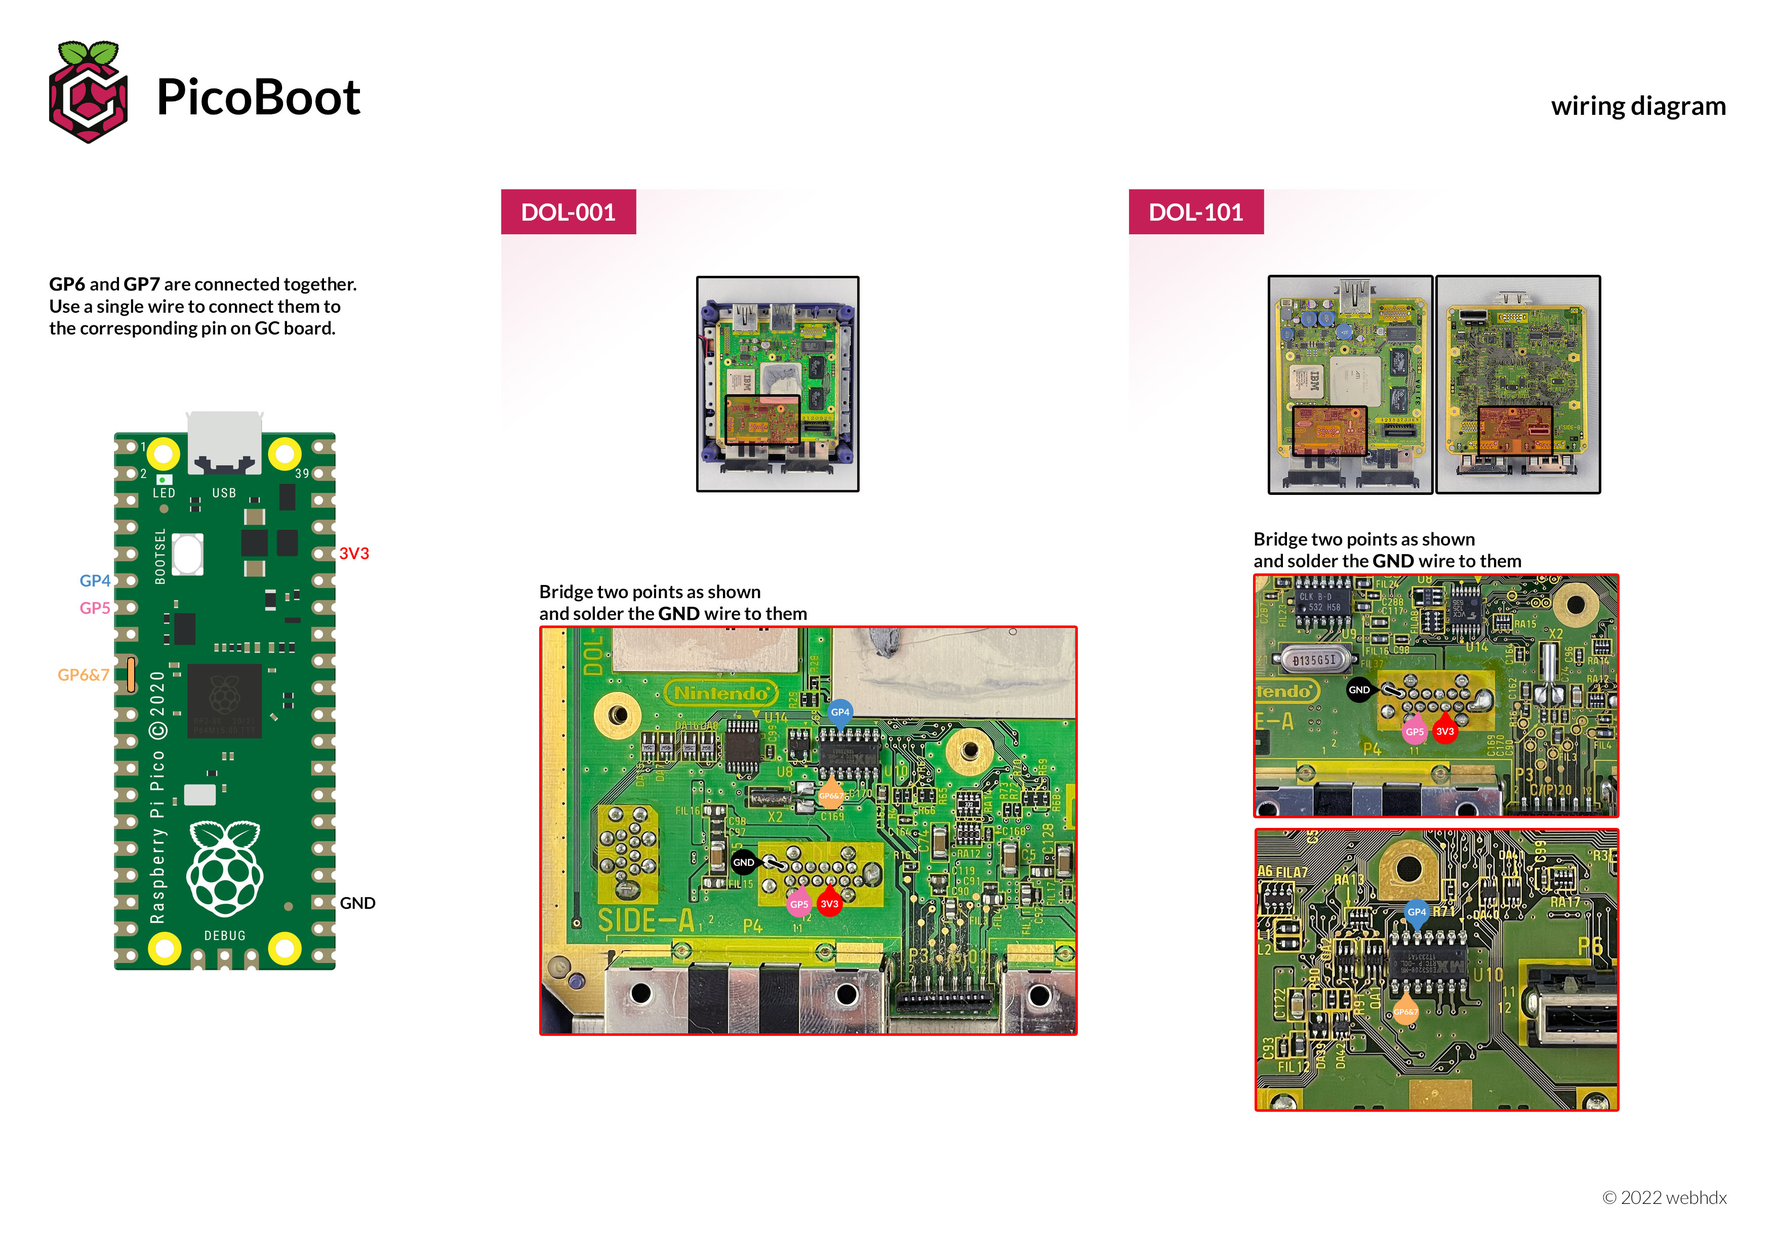
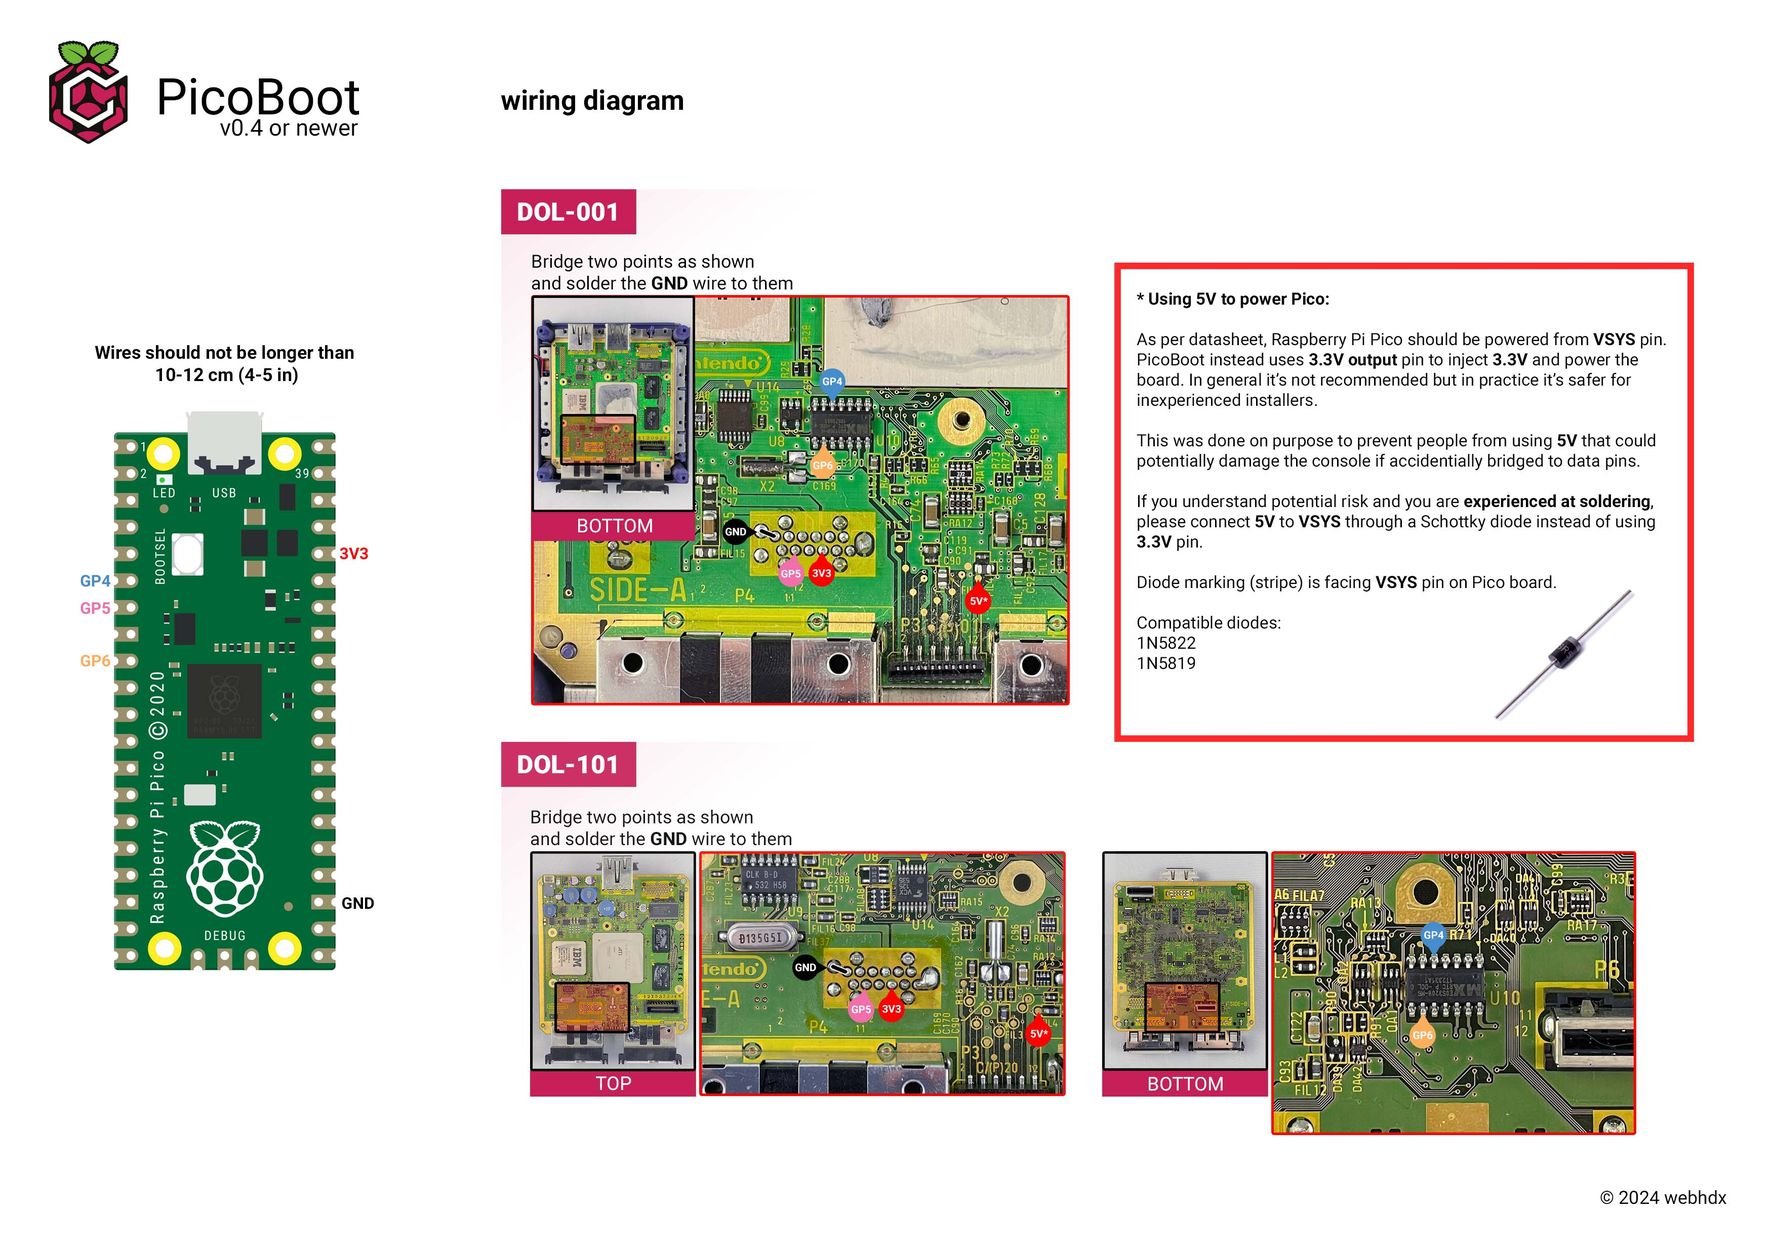
Update PicoBoot doc pages for v0.4 release (#1)
* Update PicoBoot doc pages for v0.4 release

* Add hero to PicoBoot index page

* PicoBoot: Open GH hero link in new tab

* PicoBoot/Troubleshooting: Rephrase power light comes off section

diff --git a/docs/gc/picoboot/troubleshooting.md b/docs/gc/picoboot/troubleshooting.md
@@ -1,32 +1,44 @@
 # Troubleshooting
 
-## My console boots to vanilla GC menu
+## Problem: Booting into stock GC menu
 
-In most cases this suggests there are issues with your SD card setup. Many people experienced this with SD2SP2 adapters which are very often terrible quality. I suggest trying different SD2SP2 adapter, preferably sideloading one (so called "GB Player compatible") which are, in my experience, more reliable. Getting one of memory card form factor adapters (SD Gecko, WiiSD) is also a good idea. These adapters pretty much always work. Also this is the adapter you want to get if you are using DOL-101 model.
+### Cause: SD Card setup
+In most cases this suggests there are issues with your SD card setup. Many people experienced this with SD2SP2 adapters which are very often terrible quality. I suggest trying different SD2SP2 adapter, preferably sideloading one (so called "GB Player compatible") which are, in my experience, more reliable. In mid 2024, a new version "SD2SP2 v2.0" was released. It improves compatibility with demanding games, making FMVs play with no stutter. I highly recommend getting "v2.0" adapters over the old ones.
 
-Starting with [PicoBoot v0.2](https://github.com/webhdx/PicoBoot/releases/tag/v0.2) release you can hold D-Pad Down during boot to see debug output from iplboot. You should see similar output as shown below:
+If your console is missing SP2 port (DOL-101, newer revision DOL-001, Panasonic Q) you can get memory card form factor adapter which is often called SD Gecko, WiiSD or GC2SD. They are functionally the same as SD2SP2 adapters, just using different port.
+
+To confirm it's indeed SD card related problem, you can hold D-Pad Down button during boot. It should show debug info screen while you hold the button. Make sure you're using the latest software version. Afromentioned debug screen will looks similar to the one below:
 
 ![IPLBoot debug output](/img/picoboot/iplboot_debug_output.png)
 
-```
-Mounted GAMECUBE as sda
-Reading /ipl.dol
-```
+If you get to show this screen, you can be assured your PicoBoot installation is 100% correct and the problem lies in SD card setup. 
 
-This means it properly detected my memory card named GAMECUBE in Memory Card Slot A, which is true because I've used SD Gecko adapter. If you don't see similar message it means your card couldn't be detected, you've used wrong file system (FAT32 is recommended) or there is no `ipl.dol` file on the memory card.
+### Cause: Cheap Chinese HDMI adapter
 
-## Orange light is on but it doesn't display anything on the screen
+Similar "booting to stock GameCube menu" issue can happen with some cheap Chinese GCVideo based HDMI adapters. It's described in detail in [here](https://github.com/ikorb/gcvideo/pull/123). Basically the console will boot to Swiss once and then it'll boot to the stock menu on next power cycle. The best solution is to stop using mentioned HDMI adapter as it's potentially harmful. Alternatively this issue can be mitigated by using 5V pin and a diode to power PicoBoot. Refer to [the wiring diagram](https://github.com/webhdx/PicoBoot/blob/main/assets/Wiring%20diagram.jpg) for more information. 
 
-First rule out any shorts between adjacent points. It's also common for GP4 and GP6&7 short to the heatsink if you soldered wires over U10 chip.
+## Problem: Orange light is on but it doesn't display anything on the screen
 
-If you are 100% sure your soldering is okay and there are no shorts, you are probably experiencing interference introduced to data lines because of the wires length. There is a golden rule: use as short wires as possible. 10 centimeters (~4 inches) is what I'd consider as a maximum recommended length. The type of wire is also very important. Use 26-28 AWG stranded wires. Single core or thick wires can easily break or in worst case rip pads from the motherboard if you put too much stress on them. If that happens it's a game over for your console and it's beyond fixable at that point. 
+### Cause: Wires are too long (very common!)
 
-PicoBoot placement also plays a huge role in reliability - install it near the fan, it's guaranteed to work in that spot. Any other placement is not guaranteed to work, especially placing PicoBoot in Serial Port 1 slot as it's confirmed to be unreliable.
+If you are 100% sure your soldering is okay and there are no shorts, you are probably experiencing interference on data lines caused by wires length. There is a golden rule: use as short wires as possible. 10 centimeters (~4 inches) is what I'd consider as a maximum recommended length. Type of the wires is also very important. Use 26-28 AWG stranded wires. Single core or thick wires can easily break or in worst case rip pads from the motherboard if you put too much stress on them. This kind of damage is often irrepairable. This is why you should practice soldering before attempting the installation. 
 
-#### Other possible solutions:
-- Try different power supply, ref. https://github.com/webhdx/PicoBoot/issues/32
+### Cause: Shorts between soldering points
 
-## Power light comes off shortly after hitting the power button
+First rule out any shorts between adjacent points. It's also common for GP4 and GP6 short to the heatsink if you soldered routed over U10 chip.
 
-This indicates shorted power line. Check your soldering and make sure wires are not touching any other point than the one mentioned in the diagram. Please be careful, there is 12V power line on the SP1 connector where you need to solder 3 wires. It's possible to short it to data lines and fry CPU.
+### Cause: Board placement 
+
+PicoBoot placement also plays a huge role in reliability - install it near the fan, it's guaranteed to work in that spot. There are some alternative locations which are not recommended by the creator. Especially placing PicoBoot in Serial Port 1 cavity for ease of upgrading has proven to be unreliable for some users.
+
+### Other things to try
+
+- Try a different power supply, ref. https://github.com/webhdx/PicoBoot/issues/32
+- Use 5V instead of 3.3V as noted in the wiring diagram.
+
+## Problem: Power light comes off shortly after power up
+
+### Cause: There is a short on 3.3V or 5V power rails
+
+This indicates shorted power line. Check your soldering and make sure wires are not touching any other point than the one mentioned in the diagram. Please be careful, there is 12V power line on the SP1 connector where you need to solder 3 wires. Accidential shorts in this area can be permanently harmful to the console.
 

diff --git a/docs/gc/picoboot/installation-guide.md b/docs/gc/picoboot/installation-guide.md
@@ -1,33 +1,37 @@
 # Installation guide
 
-## 0. Word of caution
+:::warning
+People have a tendency to overestimate their skills after watching tutorial videos where everything seems easy. Please practice soldering on some scrap electronics before attempting PicoBoot installation.
+:::
 
-There are a lot of botched installation pictures all over the internet. It became ridiculous at that point. Please don't attempt the installation until you have enough soldering experience. You won't be able to magically do it after watching one video on YouTube. It requires actual practice! Try on some scrap electronics first.
+## Prerequisites
 
-## 1. Prerequisites
+You obviously need a soldering iron, soldering wire, flux. For the wires I recommend 26-28 AWG gauge. A good recommended soldering station is T12 ([Amazon](https://amzn.to/3bgBbOW), [AliExpress](https://s.click.aliexpress.com/e/_DEiTBWJ)). It has Voultar's seal of approval for installing many console mods!
 
-You obviously need a soldering iron, soldering wire, flux and 26-28 AWG wires. I recommend T12 soldering station ([Amazon](https://amzn.to/3bgBbOW), [AliExpress](https://s.click.aliexpress.com/e/_DEiTBWJ)).
+* Soldering iron
+* Soldering wire, preferably lead based "Sn60Pb40"
+* Raspberry Pi Pico ([AliExpress](https://s.click.aliexpress.com/e/_DmWBvwb))
+* SD card adapter (choose one):
+    - SD Gecko or WiiSD ([AliExpress](https://s.click.aliexpress.com/e/_Dm43n6J)), GC2SD ([AliExpress](https://s.click.aliexpress.com/e/_DCGkoQf))
+    - SD2SP2 ([AliExpress](https://s.click.aliexpress.com/e/_DCQ6XUf)). Get new **v2.0** version, it's faster.
+* FAT32 formatted SD card
+* Good quality wires, 26-28 AWG gauge ([AliExpress](https://s.click.aliexpress.com/e/_DldVJQr))
 
-* Raspberry Pi Pico ([Amazon](https://amzn.to/3JbIsMw), [AliExpress](https://s.click.aliexpress.com/e/_DmWBvwb))
-* SD Gecko/WiiSD ([Amazon](https://amzn.to/3cPCEMs), [AliExpress](https://s.click.aliexpress.com/e/_Dm43n6J)) or SD2SP2 ([Amazon](https://amzn.to/3I1cCSl), [AliExpress](https://amzn.to/3PNamBe))
-* FAT32 or exFAT formatted SD card
-* Good quality wires, 26-28 AWG ([Amazon](https://amzn.to/3w6jvwQ), [AliExpress](https://s.click.aliexpress.com/e/_DldVJQr))
+Links above are affiliated and I get a small commission with no additional cost for you. Thanks to everyone who used links above 🙏
 
-Links above are affiliate and I get small commission 💵 if you buy these products. Thanks to everyone who used links above 🙏
+## Flashing Raspberry Pi Pico board
 
-## 2. Flashing Raspberry Pi Pico board
+Go to [the latest release page](https://github.com/webhdx/PicoBoot/releases/latest) and download `picoboot_full.uf2` file. Now connect Raspberry Pi Pico board to your computer while holding down `BOOTSEL` button. If it's been done correctly you'll see `RPI-RP2` mass storage device show up. Drag and drop `picoboot_full.uf2` file to that device. It'll automatically eject and green LED will light up if it was programmed correctly. Unplug USB cable from Pico and proceed with hardware installation.
 
-Go to [the latest release page](https://github.com/webhdx/PicoBoot/releases/latest) and download `picoboot.uf2` file. Now connect Raspberry Pi Pico board to your computer while holding `BOOTSEL` button pressed. If it's been done correctly you'll see `RPI-RP2` mass storage device show up. Drag and drop `picoboot.uf2` file to that device. It'll automatically eject and green LED will light up if it was programmed correctly. Unplug USB cable from Pico and proceed with hardware installation.
-
-## 3. Preparing SD card
+## Preparing SD card
 
 Format your SD card to FAT32 or exFAT. Download the latest Swiss release from [here](https://github.com/emukidid/swiss-gc/releases/latest) and grab `swiss_rXXXX.dol` file, rename it to `ipl.dol` and copy to the root of your SD card.
 
-## 4. Hardware installation
+## Hardware installation
 
-![Wiring diagram](/img/picoboot/wiring_diagram.jpg)
+[![Wiring diagram](/img/picoboot/wiring_diagram.jpg)](/img/picoboot/wiring_diagram.jpg)
 
-* Install PicoBoot on the fan assembly, behind front controller plate. Any other location like Serial Port 1 slot is not recommended and won't work reliably.
-* Use only official Raspberry Pi Pico/Pico W boards. Alternative boards are not supported.
-* Pay attention to the wires you're using! 26 AWG stranded silicone wires are my best recommendation. This is very important and using wrong type of cables caused many people to pull their hair out.
-* To remove the heatsink easily, run the console for 10-15 minutes. Once it's heated up, the heatsink should come off without using excessive force. You can twist it back and forth a few times to make thermal pads loosen up. Do not use ANY prying tools. Use your hands and be gentle. Be careful to not knock off any components from the board, especially DA15 which seems to be often ripped during heatsink removal. 
+* Install PicoBoot on the fan assembly or behind front controller plate.
+* Use official Raspberry Pi Pico (W) boards only.
+* Pay attention to the wires! 26 AWG stranded silicone wires are my best recommendation. This is very important.
+* To remove the heatsink easily, warm up the console for 10-15 minutes just by playing some game. Once it's up to the temperature, the heatsink should come off much easioer. You can twist it back and forth a few times to make thermal pads loosen up. Do not use prying tools. Be careful to not knock off any components from the board, especially DA15 component seems to be often ripped out. 

diff --git a/docs/gc/picoboot/faq.md b/docs/gc/picoboot/faq.md
@@ -4,25 +4,21 @@ sidebar_position: 3
 
 # FAQ 
 
+### Is PicoBoot better than Flippydrive, GC Loader or CubeODE?
+
+PicoBoot in combination with Swiss and SD2SP2 v2.0 adapter achieves near perfect game compatibility and enough read throughput to play games without any stutter. This puts it in the same league as Optical Drive Emulators. PicoBoot is 4-10 times cheaper than ODEs which makes it the ultimate low budget option.
+
+### Is PicoBoot better than XenoGC?
+
+XenoGC is a drive modchip, it can only patch disc data on the fly. This means you have to use a boot disk to run Swiss and play games from an SD card. PicoBoot uses completely different approach by injecting custom payload during console boot sequence. In combination with software called [Swiss](https://github.com/emukidid/swiss-gc/) it provides all XenoGC features without requiring any boot disc.
+
 ### Can I use new Pico W board?
 
-It depends. According to the reports it works but the green LED won't light up which may be confusing at first. I haven't tested it personally therfore I can't provide you with any support at this time. It's planned to fully support Pico W and WiFi functionalities in the future.
+Pico W is supported but LED won't show any activity. This is because Pico W wires LED differently which requires special handling in software. It hasn't been implemented yet. Many people are using Pico W with a success. Pico W might become the main platform for PicoBoot in the future.
 
-### My console doesn't start at all - I see no video output at all
+### Can I use new Pico 2 board?
 
-This indicates wiring issue. Please read [Installation guide](installation-guide.md) and [Troubleshooting tips](troubleshooting.md).
-
-### My console goes to vanilla GC menu instead of Swiss
-
-Please read [Troubleshooting tips](troubleshooting.md).
-
-### I don't understand how it's better than XenoGC
-
-XenoGC is a drive modchip, it can only patch disc data on the fly. This means you have to use a boot disk to run Swiss and play games from an SD card. PicoBoot uses completely different approach - injects custom payload during console boot sequence. This means it can load any application instead of a built in GameCube menu. It will work even if your disc drive is not working.
-
-### I installed your modchip and now my console doesn't work
-
-Sorry. I do not take reponsibility for any damage done by installing this modchip. Do it at your own risk!
+Pico 2 support is planned but nothing has been done just yet.
 
 ### Can I use other RP2040 boards?
 

diff --git a/docs/gc/picoboot/compiling-firmware.md b/docs/gc/picoboot/compiling-firmware.md
@@ -4,24 +4,34 @@ sidebar_position: 2
 
 # Compiling PicoBoot firmware
 
-❗ Make sure your Raspberry Pi Pico build environment is set up on your machine.
+:::info
+Before following steps, make sure you have Raspberry Pi Pico SDK installed on your machine.
+:::
 
 Build Makefile and all required build scripts:
 ```shell
 # cmake .
 ```
 
-Then grab any DOL file you'd like to boot and run processing script:
+Starting with v0.4 release, PicoBoot introduced split payload from modchip code. Now only part of the Pico can be updated to replace starting homebrew application. This was done in order to make PicoBoot more resiliant to corrupted flash memory as well as to enforce interoperability between PicoBoot and other projects like [gekkoboot](https://github.com/redolution/gekkoboot) or [cubeboot](https://github.com/OffBroadway/cubeboot).
+
+In order to proceed you need a homebrew app of your choice that will be injected by PicoBoot during boot sequence. By default, PicoBoot is shipped with [gekkoboot](https://github.com/redolution/gekkoboot) which comes with features like assigning different *.dol files to buttons, chain loading Swiss from SD card etc. If you plan to ship your own homebrew app, you have to make sure the entrypoint address of the *.dol is **0x81300000**.
+
+Process your *.dol to produce `payload.uf2`:
 ```shell
-# ./process_ipl.py iplboot.dol ipl.h
+# ./process_ipl.py gekkoboot.dol payload.uf2
 ```
 
-Do not change `ipl.h` output file name.
+`gekkoboot.dol` can be substituted with your file
 
-Once it's ready and `ipl.h` file has been created you can build the firmware:
+Now compile PicoBoot:
 
 ```shell
 # make
 ```
 
-If everything worked you should see new file `picoboot.uf2` created in the main project directory. Now hold `BOOTSEL` button on Raspberry Pi Pico and connect USB cable. New mass storage device will appear. Copy `picoboot.uf2` file to `RPI-RP2` device. Once it's done it'll automatically eject itself. Disconnect the cable and you're all done.
+If there are no errors in the output log, you'll see 2 new files we are interested in:
+* `picoboot.uf2` - PicoBoot code update file
+* `picoboot_full.uf2` - PicoBoot code + payload update file (using *.dol file provided in the earlier step)
+
+You can now flash new firmware to your Pico board just by booting it in `BOOTSEL` mode (hold `BOOTSEL` button and plug USB cable), then moving `picoboot_full.uf2` file onto the new `RPI-RP2` device. It'll auto eject and green LED will light up on Pico.

diff --git a/docs/gc/picoboot/update-picoboot.md b/docs/gc/picoboot/update-picoboot.md
@@ -1,11 +1,14 @@
 # Update PicoBoot
-❗ In order to update PicoBoot you need a microUSB cable and physical access to the Raspberry Pico board inside your console. 
 
-1. Grab the latest `picoboot.uf` file from [Releases page](https://github.com/webhdx/PicoBoot/releases/latest)
-2. Hold down `BOOTSEL` button on Raspberry Pi Pico board and connect USB cable to our computer.
-3. A new mass storage device will appear.
-4. Copy `picoboot.uf2` file onto that device.
-5. It will automatically eject itself once it finishes writing the firmware.
+:::danger
+If your Pico is wired without in-series diode (most installations prior to PicoBoot v0.4) you should disconnect 3.3V wire for the time of update. This is done to prevent supplying 3.3V to the console which could put high load on power regulator on Pico board. It can get very hot and potentially fail causing irrepairable damage.
+:::
+
+PicoBoot can be updated like any other Raspberry Pi Pico project. You need a PC and a micro USB cable.
+
+1. Grab the latest `picoboot_full.uf` file from [Releases page](https://github.com/webhdx/PicoBoot/releases/latest)
+2. Hold down `BOOTSEL` button on Raspberry Pi Pico while connecting USB cable.
+3. A new mass storage device `RPI-RP2` will appear.
+4. Copy `picoboot_full.uf2` file onto the device.
+5. When flashing is successful, it will automatically eject itself.
 6. Disconnect the USB cable and test your console.
-
-❗ **Important** ❗  Due to current PicoBoot wiring method you should desolder 3.3V wire for the time of update. This is done to prevent supplying 3.3V to the console which results in overloading power regulator on Pico board. It'll get very hot if you don't desolder the wire. If you do it quickly enough it shouldn't do any harm to the Pico but it's recommended to just desolder the wire and resolder it once you're done updating.

diff --git a/docs/gc/picoboot/index.md b/docs/gc/picoboot/index.md
@@ -1,6 +1,34 @@
-# PicoBoot
+---
+title: PicoBoot
+hide_title: true
+---
 
-Revolutionary open source IPL modchip.
+import { IconBrandGithub } from '@tabler/icons-react';
+import ThemedImage from '@theme/ThemedImage';
+import useBaseUrl from '@docusaurus/useBaseUrl';
+import PicoBootLogo from '@site/static/img/picoboot/logo.svg';
+
+<div className="hero project">
+  <div className="container">
+    <div className="row">
+    <div className="col col--8">
+    <h1 class="hero__title">PicoBoot</h1>
+      <div className="">
+        * open source
+        * uses $4 Raspberry Pi Pico board
+        * very easy installation, only 5 wires to solder or a flex cable
+        * upgradable via USB cable, without any drivers and programs
+        * automatically boots any homebrew app of your choice
+        * similar experience to ODEs like FlippyDrive or GC Loader
+      </div>
+      <a href="https://github.com/webhdx/ETH2GC" target="_blank" class="button button--lg button--primary button--icon"><IconBrandGithub stroke={2} /> View on Github</a>
+    </div>
+    <div className="col col--4 project__logo">
+        <PicoBootLogo className="picoboot-logo" />
+    </div>
+  </div>
+  </div>
+</div>
 
 ## Videos
 
